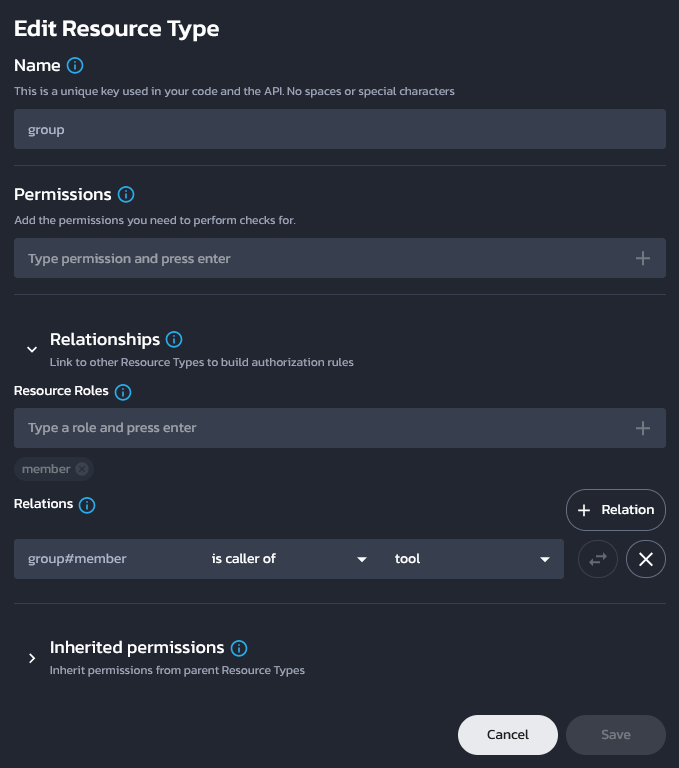
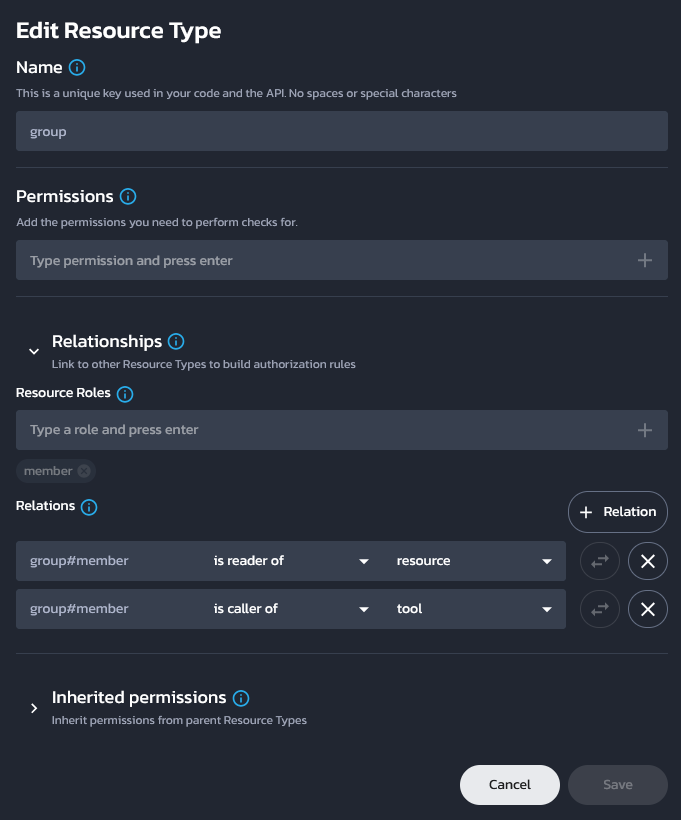
feat: add support for MCP resources

diff --git a/src/pangea_authz_fastmcp/__init__.py b/src/pangea_authz_fastmcp/__init__.py
@@ -3,26 +3,41 @@ from __future__ import annotations
 from importlib.metadata import version
 from typing import TYPE_CHECKING, override
 
-from fastmcp.exceptions import ToolError
+from fastmcp.exceptions import ResourceError, ToolError
 from fastmcp.server.dependencies import AccessToken, get_access_token
 from fastmcp.server.middleware import CallNext, Middleware, MiddlewareContext
+from fastmcp.server.server import add_resource_prefix
 from pangea.services import AuthN, AuthZ
-from pangea.services.authz import Resource, Subject
+from pangea.services.authz import BulkCheckRequestItem, Resource, Subject
 
 if TYPE_CHECKING:
     from collections.abc import Awaitable, Callable
 
-    from mcp.types import CallToolRequestParams, CallToolResult
+    from mcp.types import CallToolRequestParams, CallToolResult, ReadResourceRequestParams, ReadResourceResult
+    from pydantic import AnyUrl
 
 __version__ = version(__package__)
 
-__all__ = ("PangeaAuthzMiddleware",)
+__all__ = ("sanitize_resource_uri", "PangeaAuthzMiddleware")
 
 
 _DEFAULT_SUBJECT_TYPE = "group"
 _DEFAULT_SUBJECT_ACTION = "member"
-_DEFAULT_ACTION = "call"
-_DEFAULT_RESOURCE_TYPE = "tool"
+_DEFAULT_RESOURCE_ACTION = "read"
+_DEFAULT_TOOL_ACTION = "call"
+_DEFAULT_RESOURCE_RESOURCE_TYPE = "resource"
+_DEFAULT_TOOL_RESOURCE_TYPE = "tool"
+
+
+def sanitize_resource_uri(uri: AnyUrl | str) -> str:
+    """
+    Sanitize an MCP resource URI.
+
+    This is primarily required because Pangea AuthZ does not support have a
+    colon (":") in subject IDs.
+    """
+
+    return str(uri).replace(":", "")
 
 
 class PangeaAuthzMiddleware(Middleware):
@@ -31,13 +46,32 @@ class PangeaAuthzMiddleware(Middleware):
         *,
         pangea_authz_token: str,
         pangea_authn_token: str | None = None,
-        get_subject_ids: Callable[[AccessToken, MiddlewareContext[CallToolRequestParams]], Awaitable[list[str]]]
+        get_subject_ids: Callable[
+            [AccessToken, MiddlewareContext[CallToolRequestParams] | MiddlewareContext[ReadResourceRequestParams]],
+            Awaitable[list[str]],
+        ]
         | None = None,
+        prefix: str | None = None,
         subject_type: str = _DEFAULT_SUBJECT_TYPE,
         subject_action: str | None = _DEFAULT_SUBJECT_ACTION,
-        action: str = _DEFAULT_ACTION,
-        resource_type: str = _DEFAULT_RESOURCE_TYPE,
+        resource_action: str = _DEFAULT_RESOURCE_ACTION,
+        tool_action: str = _DEFAULT_TOOL_ACTION,
+        resource_resource_type: str = _DEFAULT_RESOURCE_RESOURCE_TYPE,
+        tool_resource_type: str = _DEFAULT_TOOL_RESOURCE_TYPE,
     ):
+        """
+        Args:
+            pangea_authz_token: Pangea AuthZ API token.
+            pangea_authn_token: Pangea AuthN API token.
+            get_subject_ids: Function to map an access token to its subject ID(s).
+            prefix: Prefix to add to tool names and resource URIs.
+            subject_type: Pangea AuthZ subject type.
+            subject_action: Pangea AuthZ subject action.
+            resource_action: Pangea AuthZ action for MCP resources.
+            tool_action: Pangea AuthZ action for MCP tools.
+            resource_resource_type: Pangea AuthZ resource type for MCP resources.
+            tool_resource_type: Pangea AuthZ resource type for MCP tools.
+        """
         if not pangea_authn_token and not get_subject_ids:
             raise ValueError("Either `pangea_authn_token` or `get_subject_ids` must be provided.")
 
@@ -46,13 +80,18 @@ class PangeaAuthzMiddleware(Middleware):
         self.authz_client = AuthZ(token=pangea_authz_token)
         self.pangea_authn_token = pangea_authn_token
         self.get_subject_ids = get_subject_ids or self._get_authn_group_ids
+        self.prefix = prefix
         self.subject_type = subject_type
         self.subject_action = subject_action
-        self.action = action
-        self.resource_type = resource_type
+        self.resource_action = resource_action
+        self.tool_action = tool_action
+        self.resource_resource_type = resource_resource_type
+        self.tool_resource_type = tool_resource_type
 
     async def _get_authn_group_ids(
-        self, access_token: AccessToken, context: MiddlewareContext[CallToolRequestParams]
+        self,
+        access_token: AccessToken,
+        context: MiddlewareContext[CallToolRequestParams] | MiddlewareContext[ReadResourceRequestParams],
     ) -> list[str]:
         if not context.fastmcp_context:
             raise ValueError("Missing FastMCP context")
@@ -100,18 +139,58 @@ class PangeaAuthzMiddleware(Middleware):
 
             subject_ids = await self.get_subject_ids(access_token, context)
 
-            # TODO: use bulk check endpoint.
-            if not any(
-                (resp.result and resp.result.allowed)
-                for resp in (
-                    self.authz_client.check(
+            if len(subject_ids) == 0:
+                raise ToolError("Unauthorized")
+
+            bulk_check_response = self.authz_client.bulk_check(
+                [
+                    BulkCheckRequestItem(
                         subject=Subject(type=self.subject_type, id=subject_id, action=self.subject_action),
-                        action=self.action,
-                        resource=Resource(type=self.resource_type, id=tool.name),
+                        action=self.tool_action,
+                        resource=Resource(
+                            type=self.tool_resource_type, id=f"{self.prefix}_{tool.name}" if self.prefix else tool.name
+                        ),
                     )
                     for subject_id in subject_ids
-                )
-            ):
+                ]
+            )
+            if bulk_check_response.result and not bulk_check_response.result.allowed:
                 raise ToolError("Unauthorized")
+
+        return await call_next(context)
+
+    @override
+    async def on_read_resource(
+        self,
+        context: MiddlewareContext[ReadResourceRequestParams],
+        call_next: CallNext[ReadResourceRequestParams, ReadResourceResult],
+    ) -> ReadResourceResult:
+        access_token: AccessToken | None = get_access_token()
+
+        if context.fastmcp_context and access_token:
+            resource = await context.fastmcp_context.fastmcp.get_resource(str(context.message.uri))
+
+            subject_ids = await self.get_subject_ids(access_token, context)
+
+            if len(subject_ids) == 0:
+                raise ResourceError("Unauthorized")
+
+            bulk_check_response = self.authz_client.bulk_check(
+                [
+                    BulkCheckRequestItem(
+                        subject=Subject(type=self.subject_type, id=subject_id, action=self.subject_action),
+                        action=self.resource_action,
+                        resource=Resource(
+                            type=self.resource_resource_type,
+                            id=sanitize_resource_uri(
+                                add_resource_prefix(str(resource.uri), self.prefix) if self.prefix else resource.uri
+                            ),
+                        ),
+                    )
+                    for subject_id in subject_ids
+                ]
+            )
+            if bulk_check_response.result and not bulk_check_response.result.allowed:
+                raise ResourceError("Unauthorized")
 
         return await call_next(context)

diff --git a/src/pangea_authz_fastmcp/cli/__init__.py b/src/pangea_authz_fastmcp/cli/__init__.py
@@ -19,8 +19,10 @@ import pangea_authz_fastmcp
 from pangea_authz_fastmcp.cli.transports import CompositeMCPConfigTransport
 
 _DEFAULT_SUBJECT_TYPE = "group"
-_DEFAULT_RELATION = "caller"
-_DEFAULT_RESOURCE_TYPE = "tool"
+_DEFAULT_RESOURCE_RELATION = "reader"
+_DEFAULT_TOOL_RELATION = "caller"
+_DEFAULT_RESOURCE_RESOURCE_TYPE = "resource"
+_DEFAULT_TOOL_RESOURCE_TYPE = "tool"
 
 if sys.platform == "linux" or sys.platform == "linux2":
     _CLIENT_PATHS = {
@@ -47,7 +49,7 @@ else:
     _WELL_KNOWN_MCP_PATHS = []
 
 
-app = cyclopts.App(name="pangea-authz-fastmcp", help="TODO", version=pangea_authz_fastmcp.__version__)
+app = cyclopts.App(name="pangea-authz-fastmcp", version=pangea_authz_fastmcp.__version__)
 
 
 @app.command
@@ -79,9 +81,21 @@ async def google_workspace(
     files: Annotated[
         list[str], cyclopts.Parameter("--files", help="Files to discover MCP servers from.")
     ] = _WELL_KNOWN_MCP_PATHS,
-    subject_type: Annotated[str, cyclopts.Parameter("--subject-type")] = _DEFAULT_SUBJECT_TYPE,
-    relation: Annotated[str, cyclopts.Parameter("--relation")] = _DEFAULT_RELATION,
-    resource_type: Annotated[str, cyclopts.Parameter("--resource-type")] = _DEFAULT_RESOURCE_TYPE,
+    subject_type: Annotated[
+        str, cyclopts.Parameter("--subject-type", help="Pangea AuthZ subject type.")
+    ] = _DEFAULT_SUBJECT_TYPE,
+    resource_relation: Annotated[
+        str, cyclopts.Parameter("--resource-relation", help="Pangea AuthZ tuple relation for MCP resources.")
+    ] = _DEFAULT_RESOURCE_RELATION,
+    tool_relation: Annotated[
+        str, cyclopts.Parameter("--tool-relation", help="Pangea AuthZ tuple relation for MCP tools.")
+    ] = _DEFAULT_TOOL_RELATION,
+    resource_resource_type: Annotated[
+        str, cyclopts.Parameter("--resource-resource-type", help="Pangea AuthZ resource type for MCP resources.")
+    ] = _DEFAULT_RESOURCE_RESOURCE_TYPE,
+    tool_resource_type: Annotated[
+        str, cyclopts.Parameter("--tool-resource-type", help="Pangea AuthZ resource type for MCP tools.")
+    ] = _DEFAULT_TOOL_RESOURCE_TYPE,
 ) -> None:
     pangea_authz_token = os.getenv("PANGEA_AUTHZ_TOKEN")
     if not pangea_authz_token:
@@ -128,24 +142,44 @@ async def google_workspace(
         tools = await mcp_client.list_tools()
         tool_names = {tool.name for tool in tools}
 
-    print("Which tools would you like these groups to be able to call?")
-    selected_tools = select_multiple(sorted(tool_names))
-    print()
+        resources = await mcp_client.list_resources()
+        resource_uris = {resource.uri for resource in resources}
+
+    selected_resources = []
+    selected_tools = []
+    if len(resource_uris) > 0:
+        print("Which resources would you like these groups to be able to read?")
+        selected_resources = select_multiple(sorted(resource_uris), preprocessor=str)
+        print()
+
+    if len(tool_names) > 0:
+        print("Which tools would you like these groups to be able to call?")
+        selected_tools = select_multiple(sorted(tool_names))
+        print()
 
     authz = AuthZ(token=pangea_authz_token)
     authz.tuple_create(
         [
             Tuple(
                 subject=Subject(type=subject_type, id=group["id"], action="member"),
-                relation=relation,
-                resource=Resource(type=resource_type, id=tool),
+                relation=resource_relation,
+                resource=Resource(type=resource_resource_type, id=pangea_authz_fastmcp.sanitize_resource_uri(resource)),
+            )
+            for resource in selected_resources
+            for group in selected_groups
+        ]
+        + [
+            Tuple(
+                subject=Subject(type=subject_type, id=group["id"], action="member"),
+                relation=tool_relation,
+                resource=Resource(type=tool_resource_type, id=tool),
             )
             for tool in selected_tools
             for group in selected_groups
         ]
     )
 
-    print(f"Created {len(selected_groups) * len(selected_tools)} AuthZ tuples.")
+    print(f"Created {len(selected_groups) * (len(selected_resources) + len(selected_tools))} AuthZ tuples.")
 
     await mcp_client.close()
     sys.exit(0)

diff --git a/tests/test_middleware.py b/tests/test_middleware.py
@@ -9,10 +9,13 @@ from pangea_authz_fastmcp import PangeaAuthzMiddleware
 if TYPE_CHECKING:
     from fastmcp.server.dependencies import AccessToken
     from fastmcp.server.middleware import MiddlewareContext
-    from mcp.types import CallToolRequestParams
+    from mcp.types import CallToolRequestParams, ReadResourceRequestParams
 
 
-async def get_subject_ids(access_token: AccessToken, context: MiddlewareContext[CallToolRequestParams]) -> list[str]:
+async def get_subject_ids(
+    access_token: AccessToken,
+    context: MiddlewareContext[CallToolRequestParams] | MiddlewareContext[ReadResourceRequestParams],
+) -> list[str]:
     return ["id1", "id2"]
 
 

diff --git a/README.md b/README.md
@@ -26,6 +26,7 @@ pip install -U pangea-authz-fastmcp
 
 ![AuthZ admin resource type](./.github/assets/authz-resource-type-admin.png)
 ![AuthZ group resource type](./.github/assets/authz-resource-type-group.png)
+![AuthZ resource resource type](./.github/assets/authz-resource-type-resource.png)
 ![AuthZ tool resource type](./.github/assets/authz-resource-type-tool.png)
 ![AuthZ user resource type](./.github/assets/authz-resource-type-user.png)
 
@@ -33,10 +34,11 @@ pip install -U pangea-authz-fastmcp
 
 ![AuthZ admin role](./.github/assets/authz-role-admin.png)
 ![AuthZ group member role](./.github/assets/authz-role-group-member.png)
+![AuthZ resource reader role](./.github/assets/authz-role-resource-reader.png)
 ![AuthZ tool caller role](./.github/assets/authz-role-tool-caller.png)
 
 7. Click on **Assigned Roles & Relations**. From this page one can assign users
-   or groups to be callers of select tools.
+   or groups to be callers of select tools or readers of select resources.
 
 ## Usage
 
@@ -50,12 +52,15 @@ import os
 
 from fastmcp.server.dependencies import AccessToken
 from fastmcp.server.middleware import MiddlewareContext
-from mcp.types import CallToolRequestParams
+from mcp.types import CallToolRequestParams, ReadResourceRequestParams
 
 from pangea_authz_fastmcp import PangeaAuthzMiddleware
 
 
-async def get_subject_ids(access_token: AccessToken, context: MiddlewareContext[CallToolRequestParams]) -> list[str]:
+async def get_subject_ids(
+    access_token: AccessToken,
+    context: MiddlewareContext[CallToolRequestParams] | MiddlewareContext[ReadResourceRequestParams],
+) -> list[str]:
     # Fetch the subject ID(s) for the given access token. For example, this can
     # be just the associated user ID, or it can be a list of group IDs that the
     # user is a member of. How this function is implemented will depend on the
@@ -116,18 +121,21 @@ Prerequisites:
 ```
 Usage: pangea-authz-fastmcp google-workspace [ARGS] [OPTIONS]
 
-╭─ Parameters ────────────────────────────────────────────────────────────────────────────────────────────────────────────────────────────────────────────────╮
-│ CUSTOMER --customer            The unique ID for the customer's Google Workspace account.                                                                   │
-│ DOMAIN --domain                The domain name. Use this flag to get groups from only one domain. To return all domains for a customer account, use the     │
-│                                --customer flag instead.                                                                                                     │
-│ CREDENTIALS --credentials      The path to the credentials file. [default: credentials.json]                                                                │
-│ MAX-GROUPS --max-groups        Maximum number of groups to fetch. [default: 30]                                                                             │
-│ FILES --files --empty-files    Files to discover MCP servers from. [default: ['~/AppData/Roaming/Claude/claude_desktop_config.json', '~/.cursor/mcp.json',  │
-│                                '~/.codeium/windsurf/mcp_config.json']]                                                                                      │
-│ SUBJECT-TYPE --subject-type    [default: group]                                                                                                             │
-│ RELATION --relation            [default: caller]                                                                                                            │
-│ RESOURCE-TYPE --resource-type  [default: tool]                                                                                                              │
-╰─────────────────────────────────────────────────────────────────────────────────────────────────────────────────────────────────────────────────────────────╯
+╭─ Parameters ─────────────────────────────────────────────────────────────────────────────────────────────────────────────────────────────────────────╮
+│ CUSTOMER --customer                              The unique ID for the customer's Google Workspace account.                                          │
+│ DOMAIN --domain                                  The domain name. Use this flag to get groups from only one domain. To return all domains for a      │
+│                                                  customer account, use the --customer flag instead.                                                  │
+│ CREDENTIALS --credentials                        The path to the credentials file. [default: credentials.json]                                       │
+│ MAX-GROUPS --max-groups                          Maximum number of groups to fetch. [default: 30]                                                    │
+│ FILES --files --empty-files                      Files to discover MCP servers from. [default:                                                       │
+│                                                  ['~/AppData/Roaming/Claude/claude_desktop_config.json', '~/.cursor/mcp.json',                       │
+│                                                  '~/.codeium/windsurf/mcp_config.json']]                                                             │
+│ SUBJECT-TYPE --subject-type                      Pangea AuthZ subject type. [default: group]                                                         │
+│ RESOURCE-RELATION --resource-relation            Pangea AuthZ tuple relation for MCP resources. [default: reader]                                    │
+│ TOOL-RELATION --tool-relation                    Pangea AuthZ tuple relation for MCP tools. [default: caller]                                        │
+│ RESOURCE-RESOURCE-TYPE --resource-resource-type  Pangea AuthZ resource type for MCP resources. [default: resource]                                   │
+│ TOOL-RESOURCE-TYPE --tool-resource-type          Pangea AuthZ resource type for MCP tools. [default: tool]                                           │
+╰──────────────────────────────────────────────────────────────────────────────────────────────────────────────────────────────────────────────────────╯
 ```
 
 ```bash
